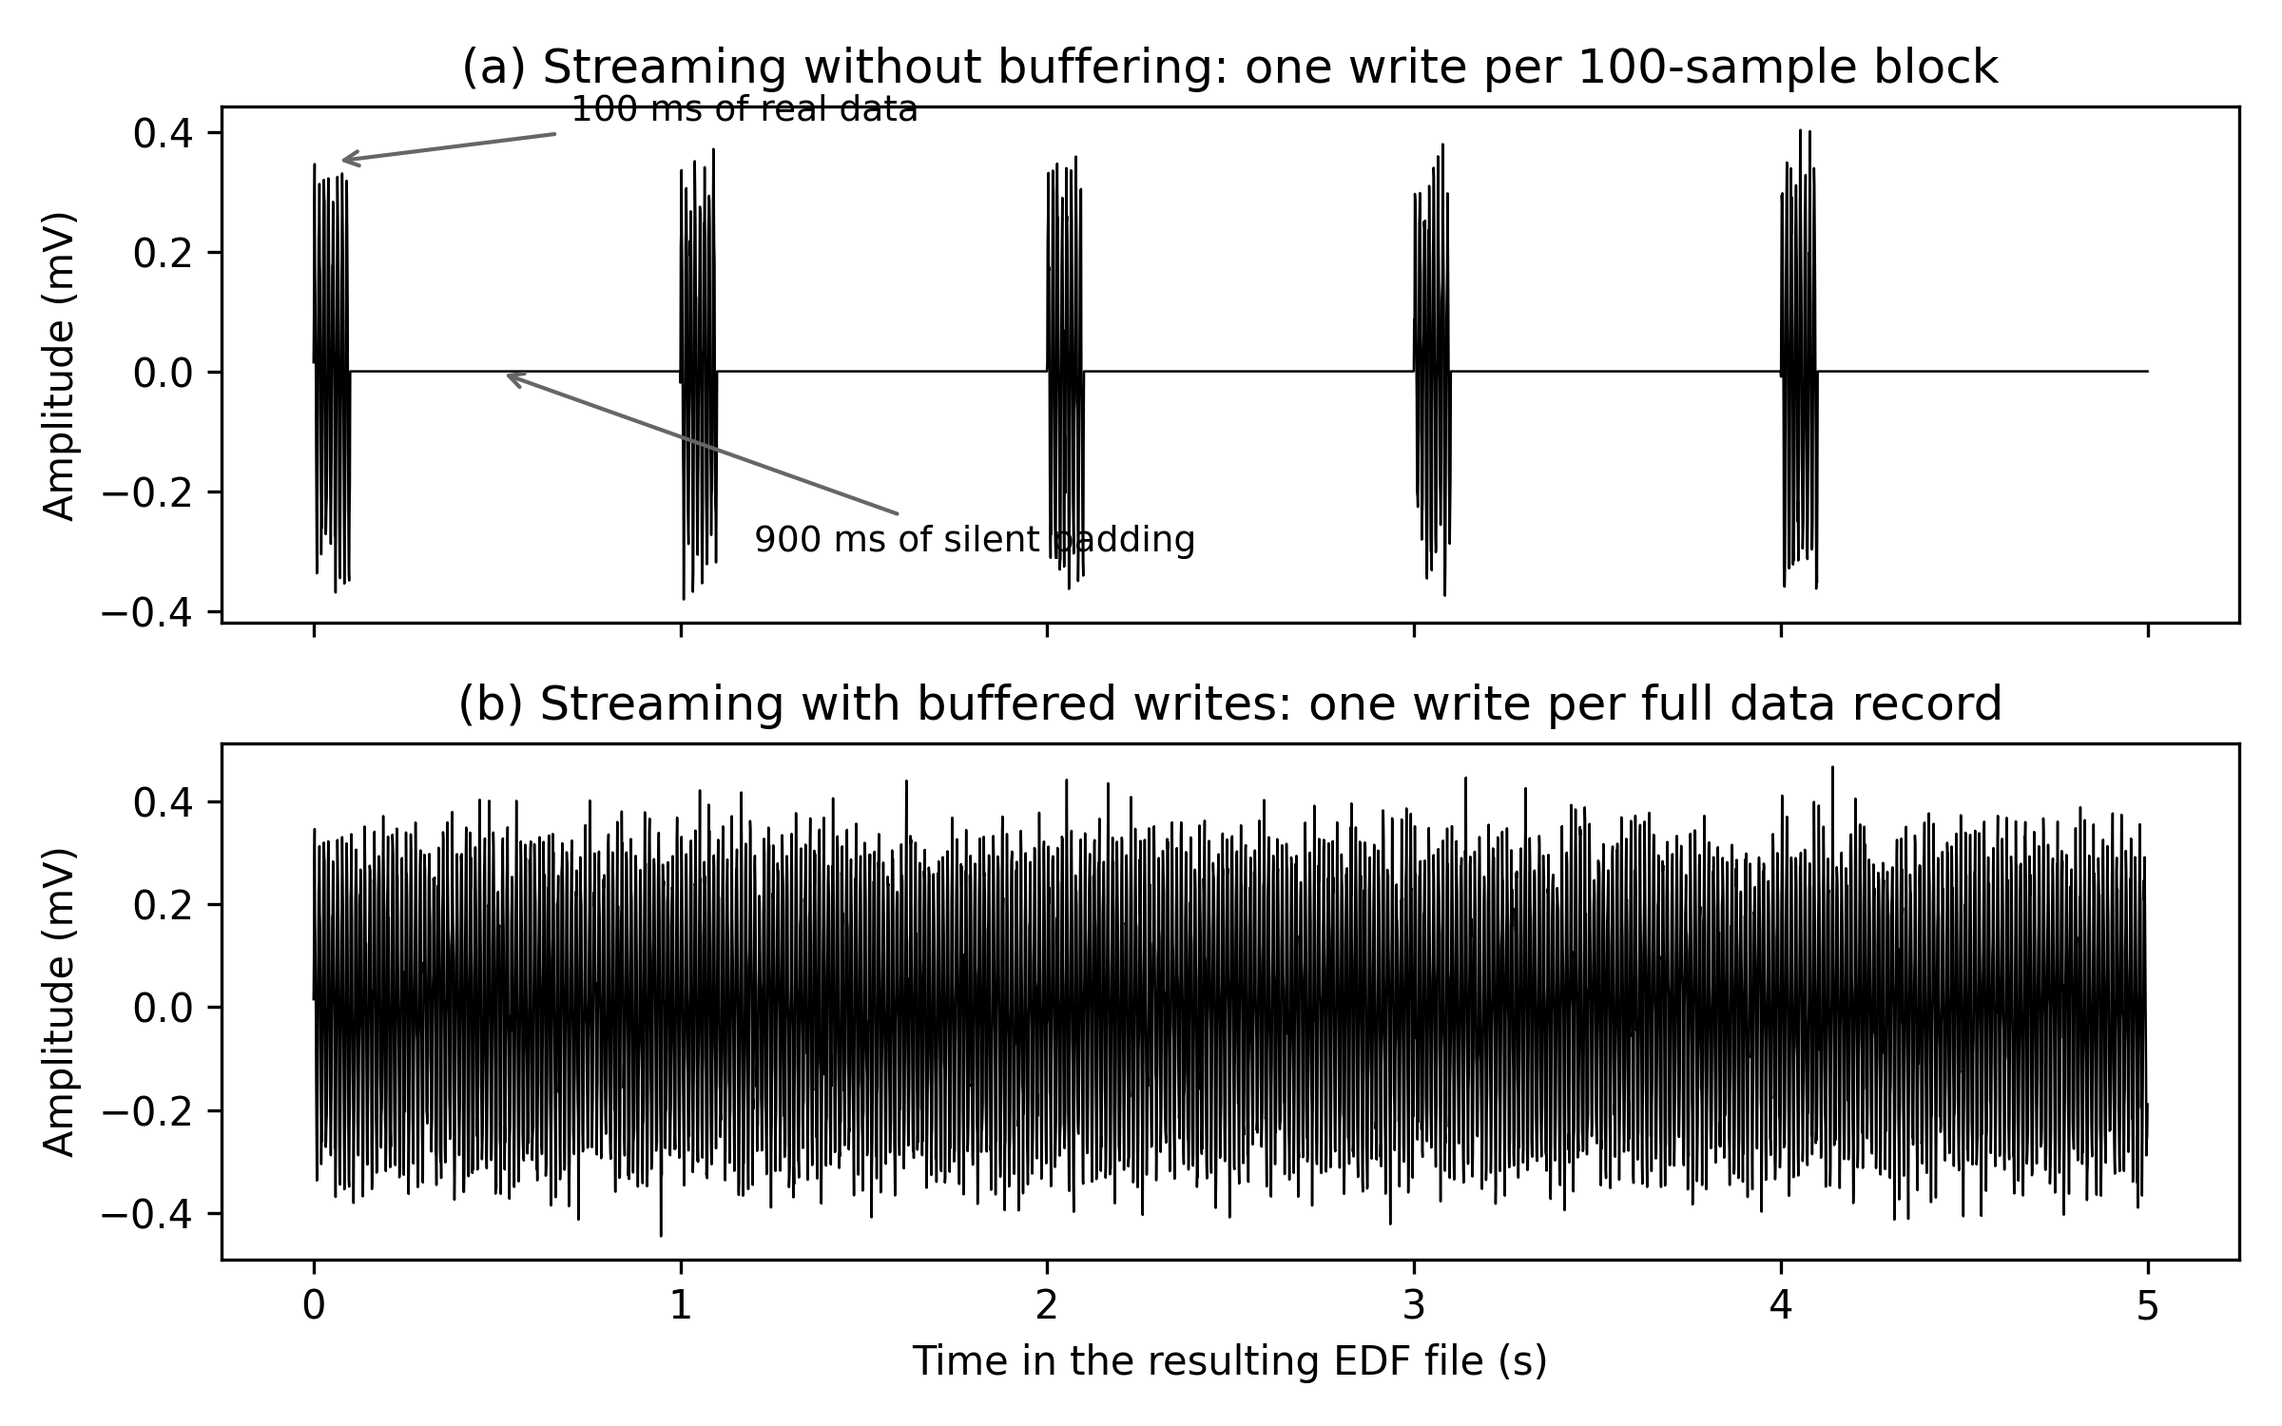
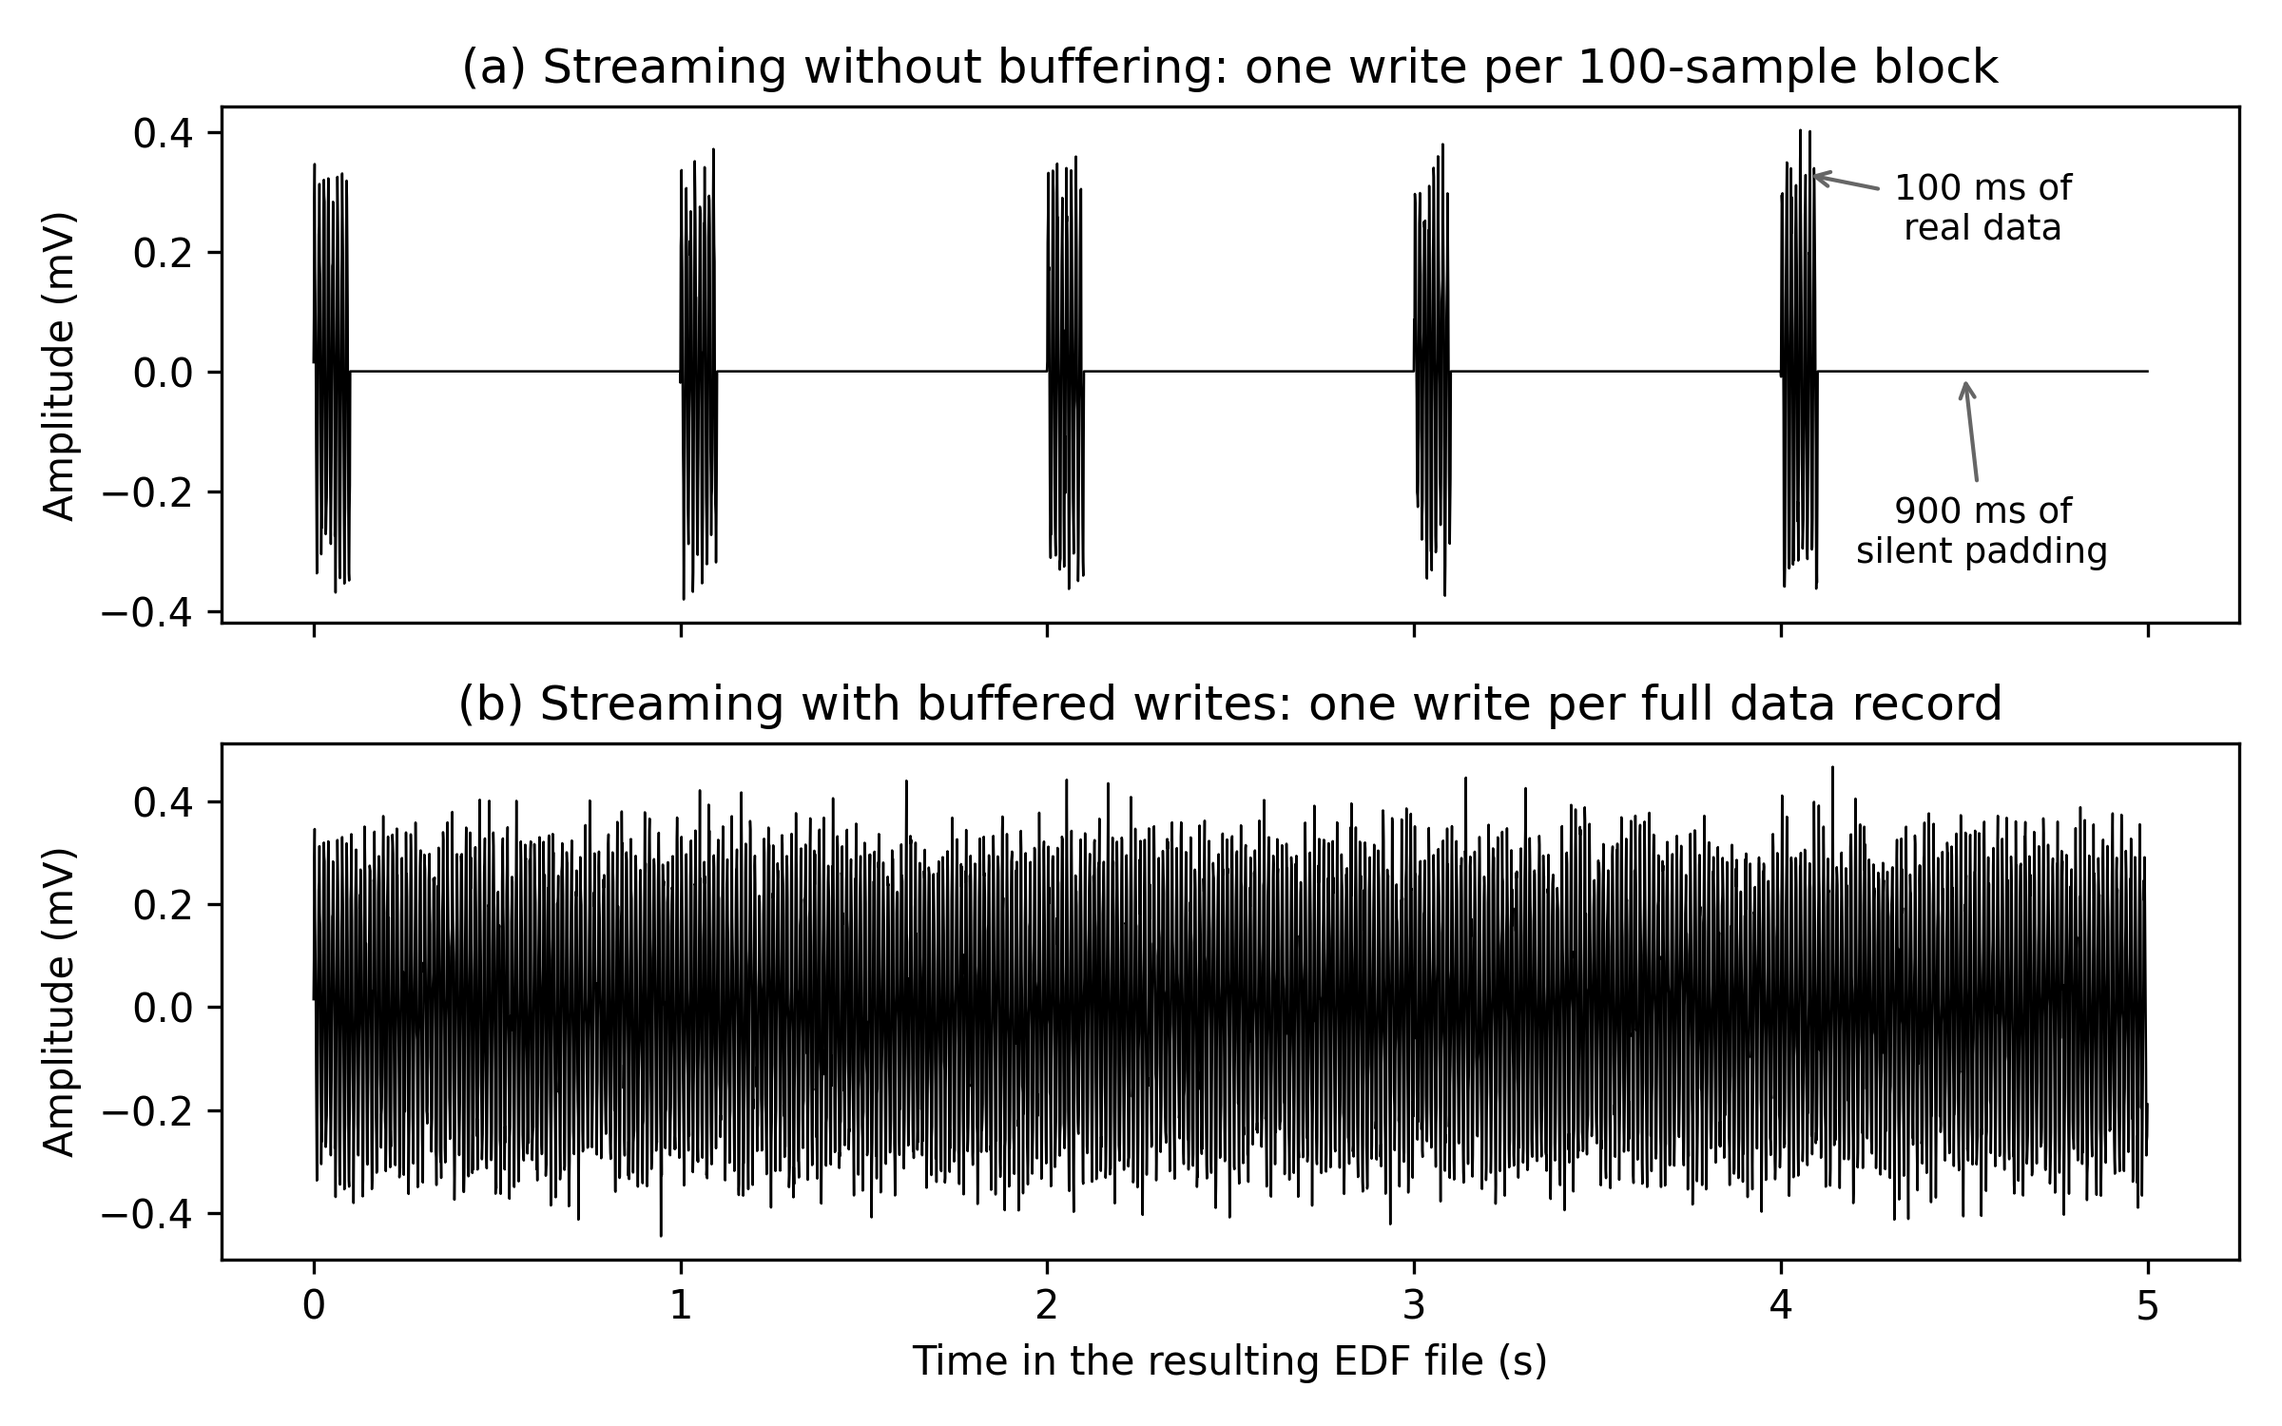
Add test suite + CI, CC0 data license, and importable harness
- test_roundtrip.py: pytest checks (naive corrupts, buffered preserves, inflation law)
- .github/workflows/ci.yml: continuous integration on Python 3.10-3.12
- harness_multilibrary.py: guard the demo under main() so the functions are importable
- DATA_LICENSE.md + LICENSE-CC0-1.0.txt: CC0-1.0 for the de-identified EDF recordings (code stays GPL-3.0)
- README.md: Testing section, CI badge, dual-license note; corrected EDF-library lineage wording
- .zenodo.json: CC0 data-license note; corrected library lineage wording
- make_figures.py + Fig_timedomain_burst_padding.png: improved time-domain annotations
- .gitignore: ignore .pytest_cache/

diff --git a/harness_multilibrary.py b/harness_multilibrary.py
@@ -45,47 +45,51 @@ def metrics(orig_ch0,dur,sig,T):
     pct=100*np.mean(np.abs(sig)<LSB)
     return dur/T, rms_r/rms_o, pct
 
-print("="*74)
-print("A) THREE IMPLEMENTATIONS — base config: fs=1000 Hz, record=1 s, block=100, T=10 s, 1 ch")
-print("="*74)
-data=gen(10,1000,1); orig=data[0]
-# pyedflib naive + buffered
-pyedflib_write('n.edf',data,1000,1.0,100,False); d,s=readback('n.edf'); inf,rr,pc=metrics(orig,d,s,10)
-print(f"pyedflib (EDFlib C-wrapper), NAIVE incremental : duration={d:.0f}s  inflation={inf:.1f}x  RMS_ratio={rr:.3f}  %<1LSB={pc:.1f}")
-pyedflib_write('b.edf',data,1000,1.0,100,True); d,s=readback('b.edf'); inf,rr,pc=metrics(orig,d,s,10)
-print(f"pyedflib, BUFFERED                             : duration={d:.0f}s  inflation={inf:.1f}x  RMS_ratio={rr:.3f}  %<1LSB={pc:.1f}")
-# EDFlib-Python naive
-try:
-    from EDFlib.edfwriter import EDFwriter
-    p='e.edf'
-    if os.path.exists(p): os.remove(p)
-    w=EDFwriter(p,EDFwriter.EDFLIB_FILETYPE_EDFPLUS,1)
-    w.setSampleFrequency(0,1000); w.setPhysicalMaximum(0,PMAX); w.setPhysicalMinimum(0,PMIN)
-    w.setDigitalMaximum(0,DMAX); w.setDigitalMinimum(0,DMIN); w.setPhysicalDimension(0,'mV')
-    for s0 in range(0,len(orig),100):
-        w.writeSamples(np.ascontiguousarray(orig[s0:s0+100]))
-    w.close()
-    d,s=readback('e.edf'); inf,rr,pc=metrics(orig,d,s,10)
-    print(f"EDFlib-Python (pure-Python port), NAIVE incr.  : duration={d:.0f}s  inflation={inf:.1f}x  RMS_ratio={rr:.3f}  %<1LSB={pc:.1f}")
-except Exception as ex:
-    print("EDFlib-Python test note:",type(ex).__name__,ex)
-# edfio (whole-file) — no streaming path
-import edfio
-es=edfio.EdfSignal(orig, sampling_frequency=1000, label='ch0', physical_range=(PMIN,PMAX))
-edfio.Edf([es]).write('io.edf')
-d,s=readback('io.edf'); inf,rr,pc=metrics(orig,d,s,10)
-print(f"edfio (independent, WHOLE-FILE, no streaming)  : duration={d:.0f}s  inflation={inf:.1f}x  RMS_ratio={rr:.3f}  %<1LSB={pc:.1f}")
-print("   -> edfio has no incremental/per-block write API; the pitfall cannot arise.")
+def main():
+    print("="*74)
+    print("A) THREE IMPLEMENTATIONS — base config: fs=1000 Hz, record=1 s, block=100, T=10 s, 1 ch")
+    print("="*74)
+    data=gen(10,1000,1); orig=data[0]
+    # pyedflib naive + buffered
+    pyedflib_write('n.edf',data,1000,1.0,100,False); d,s=readback('n.edf'); inf,rr,pc=metrics(orig,d,s,10)
+    print(f"pyedflib (EDFlib C-wrapper), NAIVE incremental : duration={d:.0f}s  inflation={inf:.1f}x  RMS_ratio={rr:.3f}  %<1LSB={pc:.1f}")
+    pyedflib_write('b.edf',data,1000,1.0,100,True); d,s=readback('b.edf'); inf,rr,pc=metrics(orig,d,s,10)
+    print(f"pyedflib, BUFFERED                             : duration={d:.0f}s  inflation={inf:.1f}x  RMS_ratio={rr:.3f}  %<1LSB={pc:.1f}")
+    # EDFlib-Python naive
+    try:
+        from EDFlib.edfwriter import EDFwriter
+        p='e.edf'
+        if os.path.exists(p): os.remove(p)
+        w=EDFwriter(p,EDFwriter.EDFLIB_FILETYPE_EDFPLUS,1)
+        w.setSampleFrequency(0,1000); w.setPhysicalMaximum(0,PMAX); w.setPhysicalMinimum(0,PMIN)
+        w.setDigitalMaximum(0,DMAX); w.setDigitalMinimum(0,DMIN); w.setPhysicalDimension(0,'mV')
+        for s0 in range(0,len(orig),100):
+            w.writeSamples(np.ascontiguousarray(orig[s0:s0+100]))
+        w.close()
+        d,s=readback('e.edf'); inf,rr,pc=metrics(orig,d,s,10)
+        print(f"EDFlib-Python (pure-Python port), NAIVE incr.  : duration={d:.0f}s  inflation={inf:.1f}x  RMS_ratio={rr:.3f}  %<1LSB={pc:.1f}")
+    except Exception as ex:
+        print("EDFlib-Python test note:",type(ex).__name__,ex)
+    # edfio (whole-file) — no streaming path
+    import edfio
+    es=edfio.EdfSignal(orig, sampling_frequency=1000, label='ch0', physical_range=(PMIN,PMAX))
+    edfio.Edf([es]).write('io.edf')
+    d,s=readback('io.edf'); inf,rr,pc=metrics(orig,d,s,10)
+    print(f"edfio (independent, WHOLE-FILE, no streaming)  : duration={d:.0f}s  inflation={inf:.1f}x  RMS_ratio={rr:.3f}  %<1LSB={pc:.1f}")
+    print("   -> edfio has no incremental/per-block write API; the pitfall cannot arise.")
 
-print()
-print("="*74)
-print("B) pyedflib CONFIG SWEEP (naive incremental).  inflation_theory = fs*d / block")
-print("="*74)
-print(f"{'fs':>6}{'rec_s':>7}{'block':>7}{'nch':>5}{'inflation':>11}{'RMS_ratio':>11}{'%<1LSB':>9}")
-sweep=[(256,1.0,32,1),(1000,1.0,100,1),(1000,1.0,100,4),(1000,0.1,10,1),
-       (1000,5.0,100,1),(4000,1.0,200,1),(1000,1.0,50,1),(1000,1.0,250,1)]
-for fs,d,block,nch in sweep:
-    data=gen(10,fs,nch); orig=data[0]
-    pyedflib_write('n.edf',data,fs,d,block,False)
-    dur,s=readback('n.edf'); inf,rr,pc=metrics(orig,dur,s,10)
-    print(f"{fs:>6}{d:>7}{block:>7}{nch:>5}{inf:>10.1f}x{rr:>11.3f}{pc:>9.1f}")
+    print()
+    print("="*74)
+    print("B) pyedflib CONFIG SWEEP (naive incremental).  inflation_theory = fs*d / block")
+    print("="*74)
+    print(f"{'fs':>6}{'rec_s':>7}{'block':>7}{'nch':>5}{'inflation':>11}{'RMS_ratio':>11}{'%<1LSB':>9}")
+    sweep=[(256,1.0,32,1),(1000,1.0,100,1),(1000,1.0,100,4),(1000,0.1,10,1),
+           (1000,5.0,100,1),(4000,1.0,200,1),(1000,1.0,50,1),(1000,1.0,250,1)]
+    for fs,d,block,nch in sweep:
+        data=gen(10,fs,nch); orig=data[0]
+        pyedflib_write('n.edf',data,fs,d,block,False)
+        dur,s=readback('n.edf'); inf,rr,pc=metrics(orig,dur,s,10)
+        print(f"{fs:>6}{d:>7}{block:>7}{nch:>5}{inf:>10.1f}x{rr:>11.3f}{pc:>9.1f}")
+
+if __name__ == "__main__":
+    main()

diff --git a/test_roundtrip.py b/test_roundtrip.py
@@ -1,0 +1,54 @@
+"""Round-trip integrity tests for the buffer-then-flush EDF writer.
+
+These tests encode the library-independent round-trip check described in the
+paper: a signal of known statistics is written, read back, and compared in
+reported duration, RMS amplitude and near-zero (padding) fraction. The naive
+per-block pattern must corrupt the recording; the buffer-then-flush pattern
+must preserve it. Run with `pytest`.
+"""
+import numpy as np
+import pytest
+
+from harness_multilibrary import gen, pyedflib_write, readback, metrics
+
+FS, D, BLOCK, T = 1000, 1.0, 100, 10.0  # base config: 10x inflation expected
+
+
+def _roundtrip(tmp_path, buffered, fs=FS, d=D, block=BLOCK):
+    """Write a known signal with the chosen pattern, read it back, return
+    (inflation, rms_ratio, pct_below_1LSB)."""
+    data = gen(T, fs, 1)
+    path = str(tmp_path / ("buffered.edf" if buffered else "naive.edf"))
+    pyedflib_write(path, data, fs, d, block, buffered)
+    dur, sig = readback(path)
+    return metrics(data[0], dur, sig, T)
+
+
+def test_naive_pattern_corrupts(tmp_path):
+    """The naive per-block writer silently inflates the file, attenuates the
+    RMS by the square root of the inflation, and fills it with zero padding."""
+    inflation, rms_ratio, pct_pad = _roundtrip(tmp_path, buffered=False)
+    expected_inflation = FS * D / BLOCK           # 10x
+    assert inflation == pytest.approx(expected_inflation, rel=0.02)
+    assert rms_ratio == pytest.approx(np.sqrt(BLOCK / (FS * D)), rel=0.05)  # ~0.316
+    assert pct_pad > 80                            # ~90% of samples are padding
+
+
+def test_buffered_pattern_preserves(tmp_path):
+    """The buffer-then-flush writer preserves duration and amplitude and
+    introduces no zero padding."""
+    inflation, rms_ratio, pct_pad = _roundtrip(tmp_path, buffered=True)
+    assert inflation == pytest.approx(1.0, abs=0.01)
+    assert rms_ratio == pytest.approx(1.0, abs=0.02)
+    assert pct_pad < 5
+
+
+@pytest.mark.parametrize(
+    "fs,d,block",
+    [(256, 1.0, 32), (1000, 1.0, 100), (1000, 0.1, 10), (4000, 1.0, 200), (1000, 1.0, 250)],
+)
+def test_inflation_law(tmp_path, fs, d, block):
+    """Measured inflation matches the deterministic law fs*d/block across
+    sampling rates, record durations and block sizes."""
+    inflation, _, _ = _roundtrip(tmp_path, buffered=False, fs=fs, d=d, block=block)
+    assert inflation == pytest.approx(fs * d / block, rel=0.02)

diff --git a/make_figures.py b/make_figures.py
@@ -65,9 +65,11 @@ def fig_timedomain():
     fig, ax = plt.subplots(2, 1, figsize=(8, 5), sharex=True)
     ax[0].plot(t, sn[:5 * fs], lw=0.6, color="k")
     ax[0].set_title("(a) Streaming without buffering: one write per 100-sample block")
-    ax[0].annotate("100 ms of real data", xy=(0.05, 0.35), xytext=(0.7, 0.42),
+    ax[0].annotate("100 ms of\nreal data", xy=(4.06, 0.33), xytext=(4.55, 0.27),
+                   ha="center", va="center",
                    arrowprops=dict(arrowstyle="->", color="0.4"), fontsize=9)
-    ax[0].annotate("900 ms of silent padding", xy=(0.5, 0.0), xytext=(1.2, -0.3),
+    ax[0].annotate("900 ms of\nsilent padding", xy=(4.5, 0.0), xytext=(4.55, -0.27),
+                   ha="center", va="center",
                    arrowprops=dict(arrowstyle="->", color="0.4"), fontsize=9)
     ax[1].plot(t, sb[:5 * fs], lw=0.6, color="k")
     ax[1].set_title("(b) Streaming with buffered writes: one write per full data record")

diff --git a/README.md b/README.md
@@ -5,6 +5,7 @@ manuscript *"Preventing and detecting silent EDF corruption in real-time
 biopotential streaming: a buffer-then-flush writing method and a round-trip
 integrity test"* (under review).
 
+[![CI](https://github.com/aagisto-maker/edf-buffered-write/actions/workflows/ci.yml/badge.svg)](https://github.com/aagisto-maker/edf-buffered-write/actions/workflows/ci.yml)
 [![DOI](https://zenodo.org/badge/DOI/10.5281/zenodo.21163099.svg)](https://doi.org/10.5281/zenodo.21163099)
 [![License: GPL-3.0](https://img.shields.io/badge/License-GPL%20v3-blue.svg)](https://www.gnu.org/licenses/gpl-3.0)
 
@@ -27,20 +28,23 @@ the effect and provides two remedies:
    the writing library.
 
 The effect is quantified across a configuration sweep, compared across three
-independent EDF writers (pyedflib, EDFlib-Python, edfio), and reproduced on a
-real surface-EMG recording.
+EDF writers (`pyedflib` and `EDFlib-Python`, both built on van Beelen's EDFlib,
+and the independent `edfio`), and reproduced on a real surface-EMG recording.
 
 ## Contents
 
 | File | Purpose |
 |---|---|
-| `harness_multilibrary.py` | Configuration sweep (Table 1) and three-implementation comparison (Table 2). Prints all numbers. |
+| `harness_multilibrary.py` | Configuration sweep (Table 1) and three-implementation comparison (Table 2). Prints all numbers. Its functions are importable (guarded `main()`). |
+| `test_roundtrip.py` | Automated round-trip integrity tests (`pytest`): the naive pattern must corrupt, the buffered pattern must preserve, and the inflation law must hold across configs. |
+| `.github/workflows/ci.yml` | Continuous-integration workflow running the tests on Python 3.10–3.12. |
 | `make_figures.py` | Regenerates the synthetic-signal figures (time-domain, inflation law, PSD contamination). |
 | `make_pseudocode.py` | Regenerates the side-by-side pseudocode figure. |
 | `realdata_roundtrip.py` | Round-trip of a real EDF recording through the naive and buffered writers; produces `Fig_realdata_PSD.png`. |
 | `emgteach_real_sEMG_2ch_1kHz_58s.edf` | De-identified real surface-EMG recording used for the real-data round-trip (Figure 5). |
 | `Fig_*.png` | The five manuscript figures (300 dpi). |
 | `requirements.txt` | Pinned dependency versions. |
+| `DATA_LICENSE.md` / `LICENSE-CC0-1.0.txt` | Data license (CC0-1.0, public domain) for the de-identified `.edf` recordings, separate from the GPL-3.0 code. |
 
 ## Requirements
 
@@ -64,9 +68,25 @@ python make_figures.py
 # Pseudocode figure
 python make_pseudocode.py
 
-# Real-data round-trip (Figure 5), using the included de-identified recording
+# Real-data round-trip, using the included de-identified recording
 python realdata_roundtrip.py emgteach_real_sEMG_2ch_1kHz_58s.edf 1 100
 ```
+
+## Testing
+
+The round-trip integrity check is exercised by an automated test suite:
+
+```bash
+pip install pytest
+pytest -v
+```
+
+`test_roundtrip.py` asserts that the naive per-block writer corrupts the
+recording (duration inflated by `fs*d/block`, RMS attenuated by its square root,
+signal filled with padding), that the buffer-then-flush writer preserves
+duration and amplitude, and that the deterministic inflation law holds across a
+range of sampling rates, record durations and block sizes. The same tests run
+in continuous integration on Python 3.10–3.12 (`.github/workflows/ci.yml`).
 
 All synthetic results use a fixed random seed (42), so the numbers are
 reproducible across machines. Base configuration (fs = 1 kHz, 1 s records,
@@ -110,4 +130,9 @@ The scripts in this repository were developed with the assistance of Claude
 
 ## License
 
-GPL-3.0. See `LICENSE`.
+This repository is dual-licensed:
+
+- **Code** (scripts, CI workflow, configuration) under **GPL-3.0** — see `LICENSE`.
+- **Data** (the two de-identified `.edf` surface-EMG recordings) released into
+  the public domain under **CC0-1.0** — see `DATA_LICENSE.md` and
+  `LICENSE-CC0-1.0.txt`.

diff --git a/DATA_LICENSE.md b/DATA_LICENSE.md
@@ -1,0 +1,30 @@
+# Data license
+
+This repository is **dual-licensed**:
+
+- **Software** (all `.py` scripts, the CI workflow and configuration files) is
+  licensed under the **GNU General Public License v3.0** — see `LICENSE`.
+- **Data** (the de-identified surface-EMG recordings listed below) is released
+  into the public domain under the **Creative Commons CC0 1.0 Universal**
+  dedication — see `LICENSE-CC0-1.0.txt` or
+  <https://creativecommons.org/publicdomain/zero/1.0/>.
+
+## Files covered by CC0-1.0
+
+| File | Description |
+|---|---|
+| `emgteach_real_sEMG_2ch_1kHz_58s.edf` | De-identified surface-EMG recording, 2 channels, 1 kHz, 58 s (BITalino acquisition chain). |
+| `emgteach_real_sEMG_MyoWare_1ch_1kHz_24s.edf` | De-identified surface-EMG recording, 1 channel, 1 kHz, 24 s (Arduino-compatible board with a MyoWare 2.0 sensor). |
+
+Both recordings are the author's own signals, recorded by the author from
+himself and released with his consent. Their EDF+ headers contain no
+identifiable personal data (all patient sub-fields are set to `X`).
+
+## Attribution
+
+Under CC0, attribution is **not required** — the recordings may be used for any
+purpose without permission. If you find them useful, a citation is appreciated
+but not obligatory:
+
+> Agis-Torres, Á. (2026). *edf-buffered-write — de-identified surface-EMG
+> recordings.* Zenodo. https://doi.org/10.5281/zenodo.21163099.
